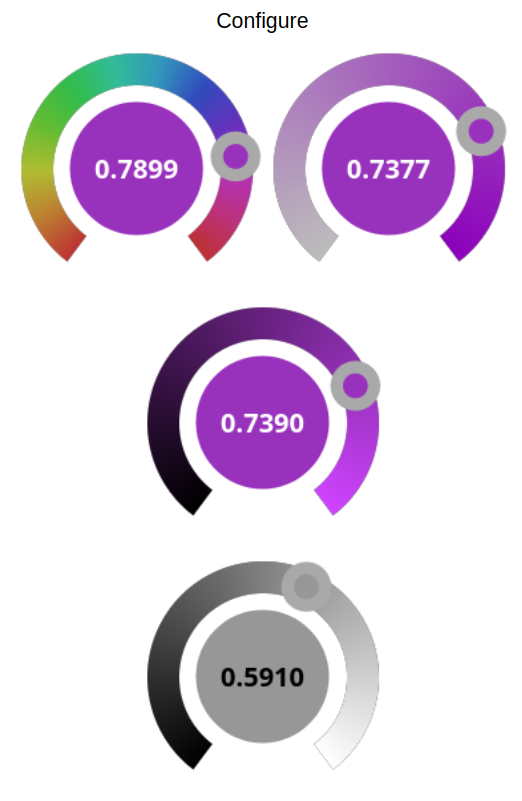
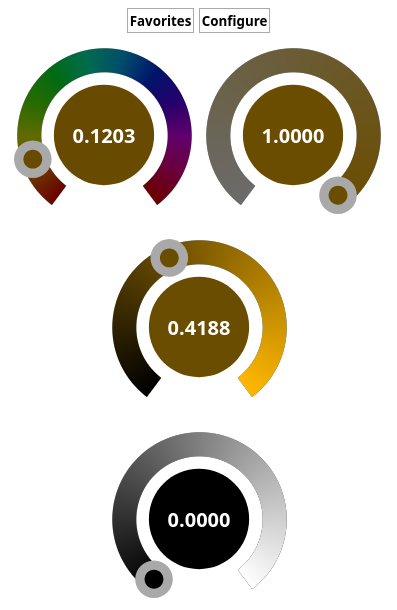
Readme update Filters gui update

diff --git a/resources/config.html b/resources/config.html
@@ -148,34 +148,62 @@
                     
                     <div>
                         <div id="filters-div">
-                            <h3>Input hue filter&#32;(for HSV and HSL)</h3>
-                            <filterselector id="input-hue"></filterselector>   
-                            <h3>Input saturation filter&#32;(for HSV and HSL)</h3>
-                            <filterselector id="input-saturation"></filterselector>
-                            <h3>Input value filter&#32;(for HSV)</h3>
-                            <filterselector id="input-value"></filterselector>
-                            <h3>Input lightness filter&#32;(for HSL)</h3>
-                            <filterselector id="input-lightness"></filterselector>
-                            <h3>Input red filter&#32;(for RGB)</h3>
-                            <filterselector id="input-red"></filterselector>
-                            <h3>Input green filter&#32;(for RGB)</h3>
-                            <filterselector id="input-green"></filterselector>
-                            <h3>Input blue filter&#32;(for RGB)</h3>
-                            <filterselector id="input-blue"></filterselector>
-                            <h3>Input white filter&#32;(additional channel)</h3>
-                            <filterselector id="input-white"></filterselector>
-                            <h3>Input common filter&#32;(for/after all above)</h3>
-                            <filterselector id="input-common-filter"></filterselector>
-                            <h3>Output common filter&#32;(for/before all below)</h3>
-                            <filterselector id="output-common-filter"></filterselector>
-                            <h3>Output red filter</h3>
-                            <filterselector id="output-red"></filterselector>
-                            <h3>Output green filter</h3>
-                            <filterselector id="output-green"></filterselector>
-                            <h3>Output blue filter</h3>
-                            <filterselector id="output-blue"></filterselector>
-                            <h3>Output white filter&#32;(additional channel)</h3>
-                            <filterselector id="output-white"></filterselector>
+                            <details class="menu-details">
+                                <summary class="menu-summary prevent-select">Input hue filter&#32;(for HSV and HSL)</summary>
+                                <filterselector id="input-hue"></filterselector>
+                            </details>   
+                            <details class="menu-details">
+                                <summary class="menu-summary prevent-select">Input saturation filter&#32;(for HSV and HSL)</summary>
+                                <filterselector id="input-saturation"></filterselector>
+                            </details>
+                            <details class="menu-details">
+                                <summary class="menu-summary prevent-select">Input value filter&#32;(for HSV)</summary>
+                                <filterselector id="input-value"></filterselector>
+                            </details>
+                            <details class="menu-details">
+                                <summary class="menu-summary prevent-select">Input lightness filter&#32;(for HSL)</summary>
+                                <filterselector id="input-lightness"></filterselector>
+                            </details>
+                            <details class="menu-details">
+                                <summary class="menu-summary prevent-select">Input red filter&#32;(for RGB)</summary>
+                                <filterselector id="input-red"></filterselector>
+                            </details>
+                            <details class="menu-details">
+                                <summary class="menu-summary prevent-select">Input green filter&#32;(for RGB)</summary>
+                                <filterselector id="input-green"></filterselector>
+                            </details>
+                            <details class="menu-details">
+                                <summary class="menu-summary prevent-select">Input blue filter&#32;(for RGB)</summary>
+                                <filterselector id="input-blue"></filterselector>
+                            </details>
+                            <details class="menu-details">
+                                <summary class="menu-summary prevent-select">Input white filter&#32;(additional channel)</summary>
+                                <filterselector id="input-white"></filterselector>
+                            </details>
+                            <details class="menu-details">
+                                <summary class="menu-summary prevent-select">Input common filter&#32;(for/after all above)</summary>
+                                <filterselector id="input-common-filter"></filterselector>
+                            </details>
+                            <details class="menu-details">
+                                <summary class="menu-summary prevent-select">Output common filter&#32;(for/before all below)</summary>
+                                <filterselector id="output-common-filter"></filterselector>
+                            </details>
+                            <details class="menu-details">
+                                <summary class="menu-summary prevent-select">Output red filter</summary>
+                                <filterselector id="output-red"></filterselector>
+                            </details>
+                            <details class="menu-details">
+                                <summary class="menu-summary prevent-select">Output green filter</summary>
+                                <filterselector id="output-green"></filterselector>
+                            </details>
+                            <details class="menu-details">
+                                <summary class="menu-summary prevent-select">Output blue filter</summary>
+                                <filterselector id="output-blue"></filterselector>
+                            </details>
+                            <details class="menu-details">
+                                <summary class="menu-summary prevent-select">Output white filter&#32;(additional channel)</summary>
+                                <filterselector id="output-white"></filterselector>
+                            </details>
                         </div>
 
                         <details class="info-div">

diff --git a/compile_resources.py b/compile_resources.py
@@ -1,3 +1,5 @@
+#!/usr/bin/python3
+
 import os
 import re
 import ctypes

diff --git a/Readme.md b/Readme.md
@@ -24,6 +24,11 @@ Project was designed for XIAO ESP32C3.
 ![image](doc/gui_bricks.png)
 
 
+### Favorites
+
+![image](doc/favorites.png)
+
+
 ### Confguration
 
 ![image](doc/gui_config.png)
@@ -60,3 +65,11 @@ When no multiplexer:
 ```
 docker build -t led_driver . && docker run -it -p 8000:8000 led_driver
 ```
+then open http://0.0.0.0:8000 in your browser and download a binary file.
+
+You can aslo run a script which builds the image, runs the container, downloads this file automatically and removes the container:
+```
+./compile_with_docker.sh
+```
+
+The file `main.ino.bin` can be uploaded on `Configuration` page in `Update` tab.
